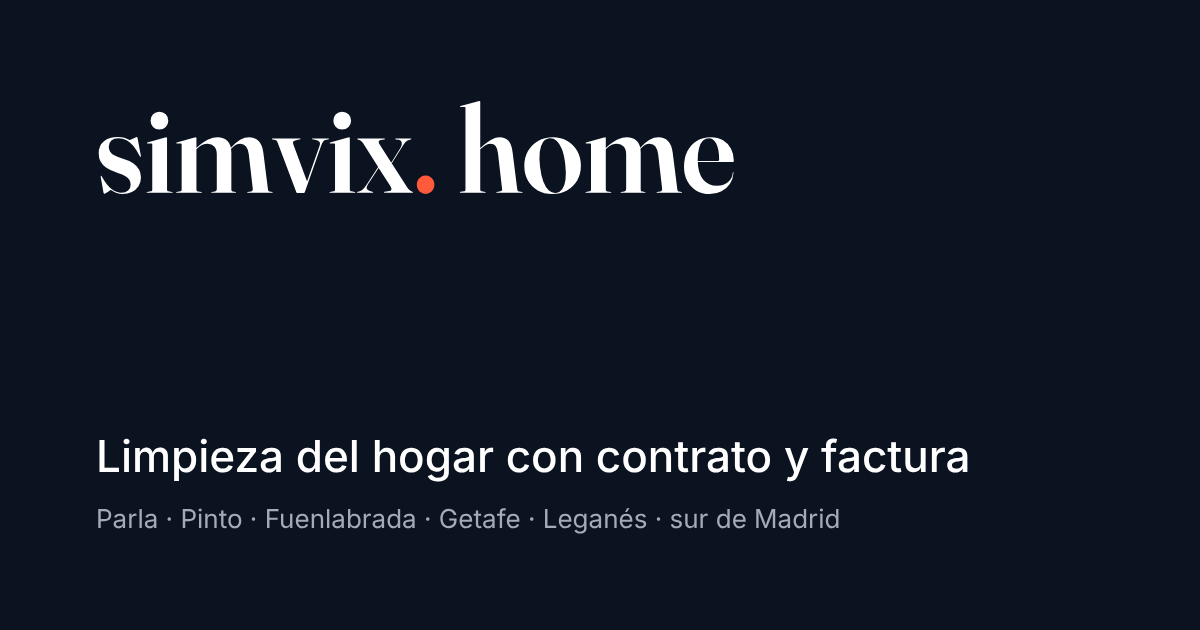
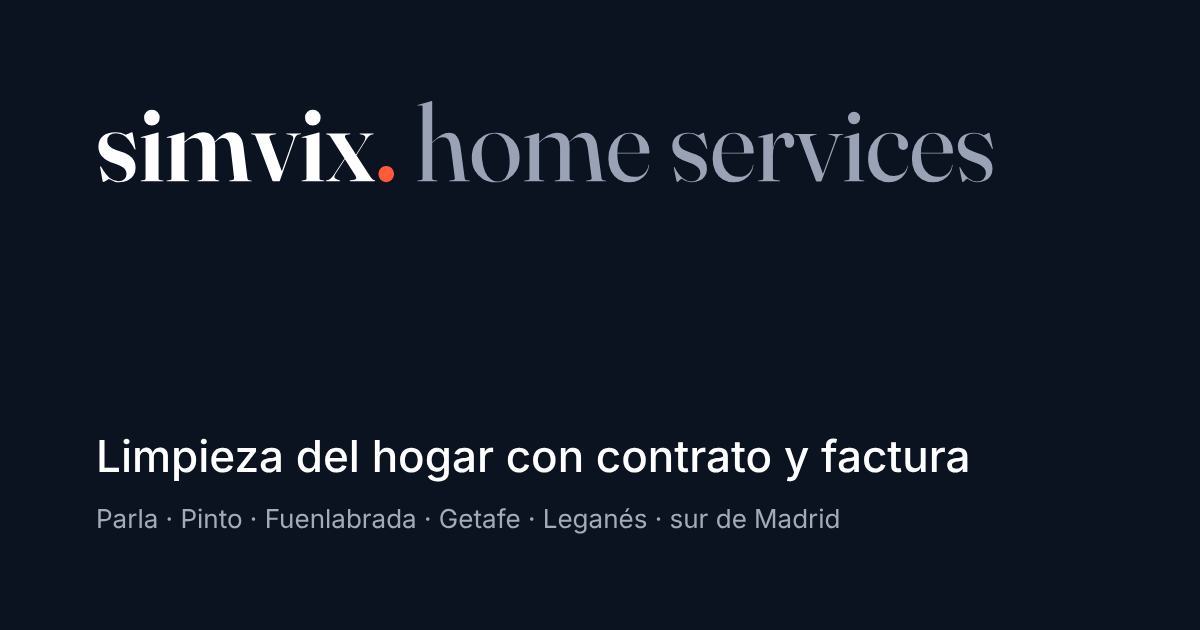
Marca: gris de producto del kit (#9AA3B5) en el logotipo oscuro
Claude-Session: https://claude.ai/code/session_017UCRTFRDxRFutSMif6G7gt

Changed region(s): [[0.0617, 0.1508, 0.8325, 0.3317]]

diff --git a/scripts/brand/generar-marca.py b/scripts/brand/generar-marca.py
@@ -72,7 +72,7 @@ def simbolo(letter, bg=None, scale=1.0, radius=0):
 
 # ---- Logotipo «simvix. home services»: «simvix.» Fraunces 600 tinta + punto coral, producto en 400 gris ----
 GRAY = "#5B6476"
-GRAY_DARK = "#A3AAB8"  # el gris sobre tinta (8:1)
+GRAY_DARK = "#9AA3B5"  # gris de producto sobre tinta del kit del grupo (7,4:1)
 font400 = instantiateVariableFont(TTFont(src), {"wght": 400, "opsz": 144, "SOFT": 0, "WONK": 0})
 gs400 = font400.getGlyphSet()
 S = 1.0 / upm * 100  # 100 px por em
